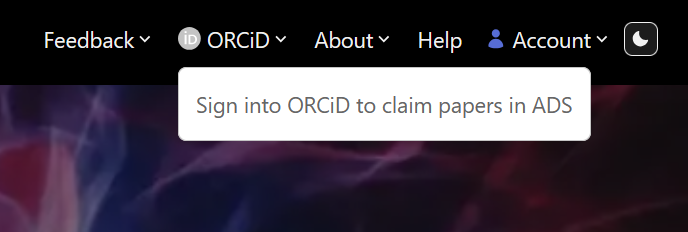
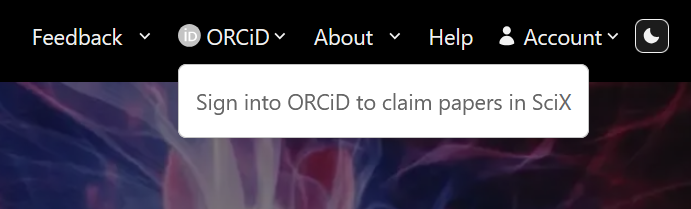
removing mentions of ADS from ORCiD pg

diff --git a/episodes/orcid_scix.md b/episodes/orcid_scix.md
@@ -32,10 +32,6 @@ When you navigate to [SciX](https://scixplorer.org/), ensure you can see the hom
 Ask learners: "Can everyone see the SciX homepage on their browser?"  
 :::
 
-### ADS & SciX
-
-Before we get too far, I want to remind everyone that the Science Explorer is an expanded and updated indexing and abstracting service that is being developed by the same team that created the [Astrophysics Data System](https://ui.adsabs.harvard.edu/).  A lot of SciX's functionality is borrowed from ADS, so you will sometimes see ADS branding even though we are looking at SciX, for the purposes of this lesson you can consider SciX and ADS to be interchangeable.
-
 ### ORCiD & SciX
 
 Many researchers and authors today are claiming [ORCiDs](https://orcid.org/) to help disambiguate themselves from others who share their name.  SciX lets you search for published content using an ORCiD, just write "orcid:" before the ID in the query field.  For example:
